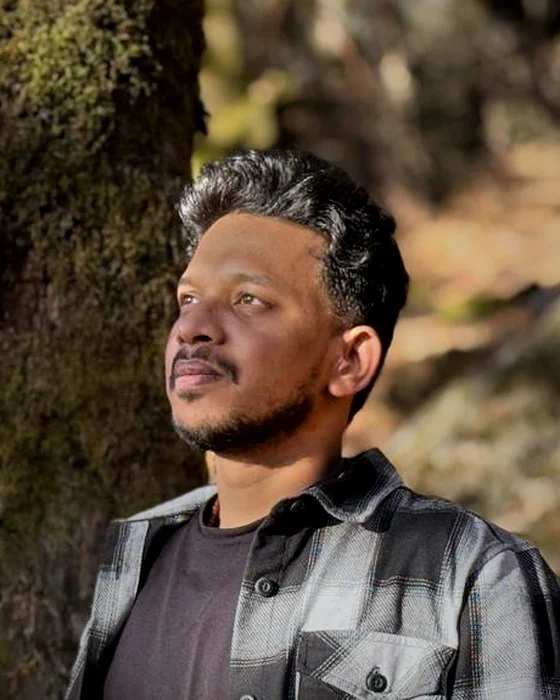
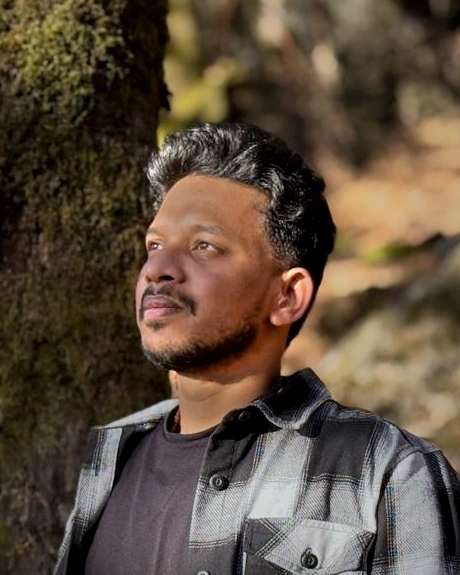
Add files via upload

Changed region(s): [[0.3652, 0.6209, 0.5478, 0.7391]]

diff --git a/index.html b/index.html
@@ -462,7 +462,7 @@ td.range b{white-space:nowrap}
     <p class="linkrow"><a href="#projects">Projects</a><span aria-hidden="true">/</span><a href="#writing">Writing</a><span aria-hidden="true">/</span><a href="https://github.com/pawankalyan-gurram">GitHub</a><span aria-hidden="true">/</span><a href="#contact">Email</a></p>
   </div>
   <div class="photo">
-    <picture><source srcset="pawan-kalyan.webp?v=3" type="image/webp"><img src="pawan-kalyan.jpg?v=3" alt="Pawan Kalyan" width="560" height="700" decoding="async" fetchpriority="high"></picture>
+    <picture><source srcset="pawan-kalyan.webp?v=4" type="image/webp"><img src="pawan-kalyan.jpg?v=4" alt="Pawan Kalyan" width="460" height="575" decoding="async" fetchpriority="high"></picture>
   </div>
 </div>
 
